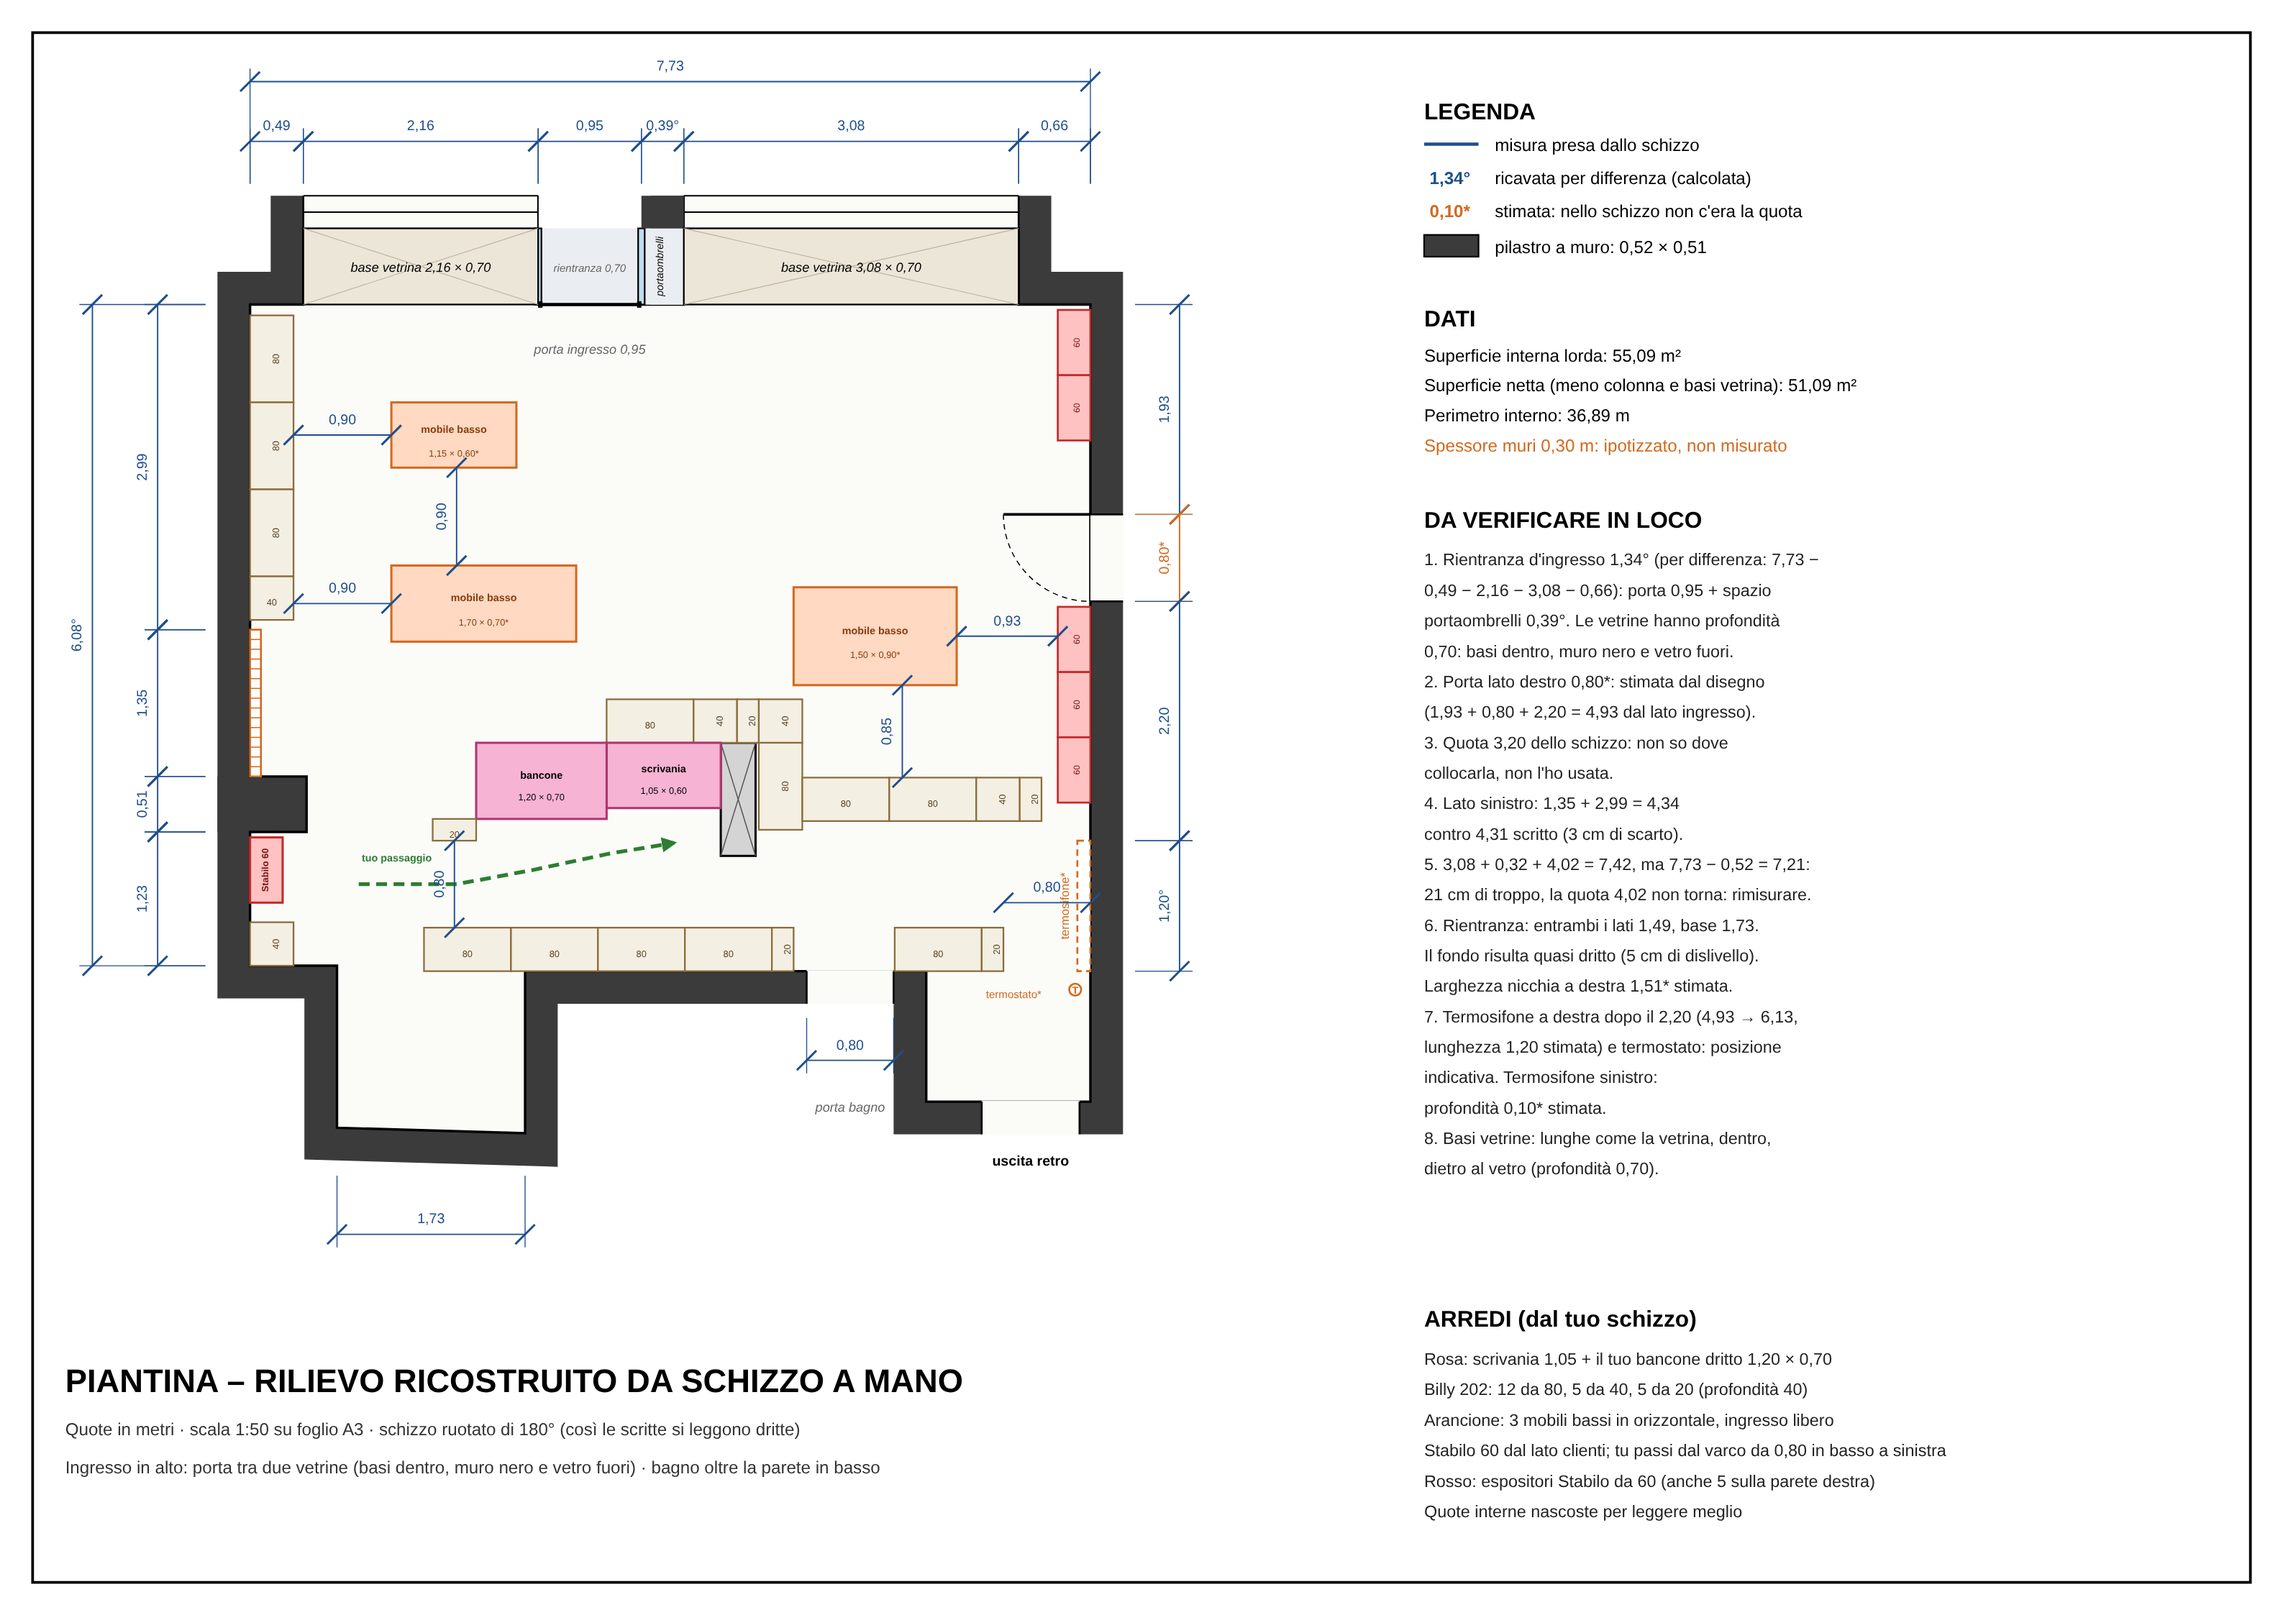
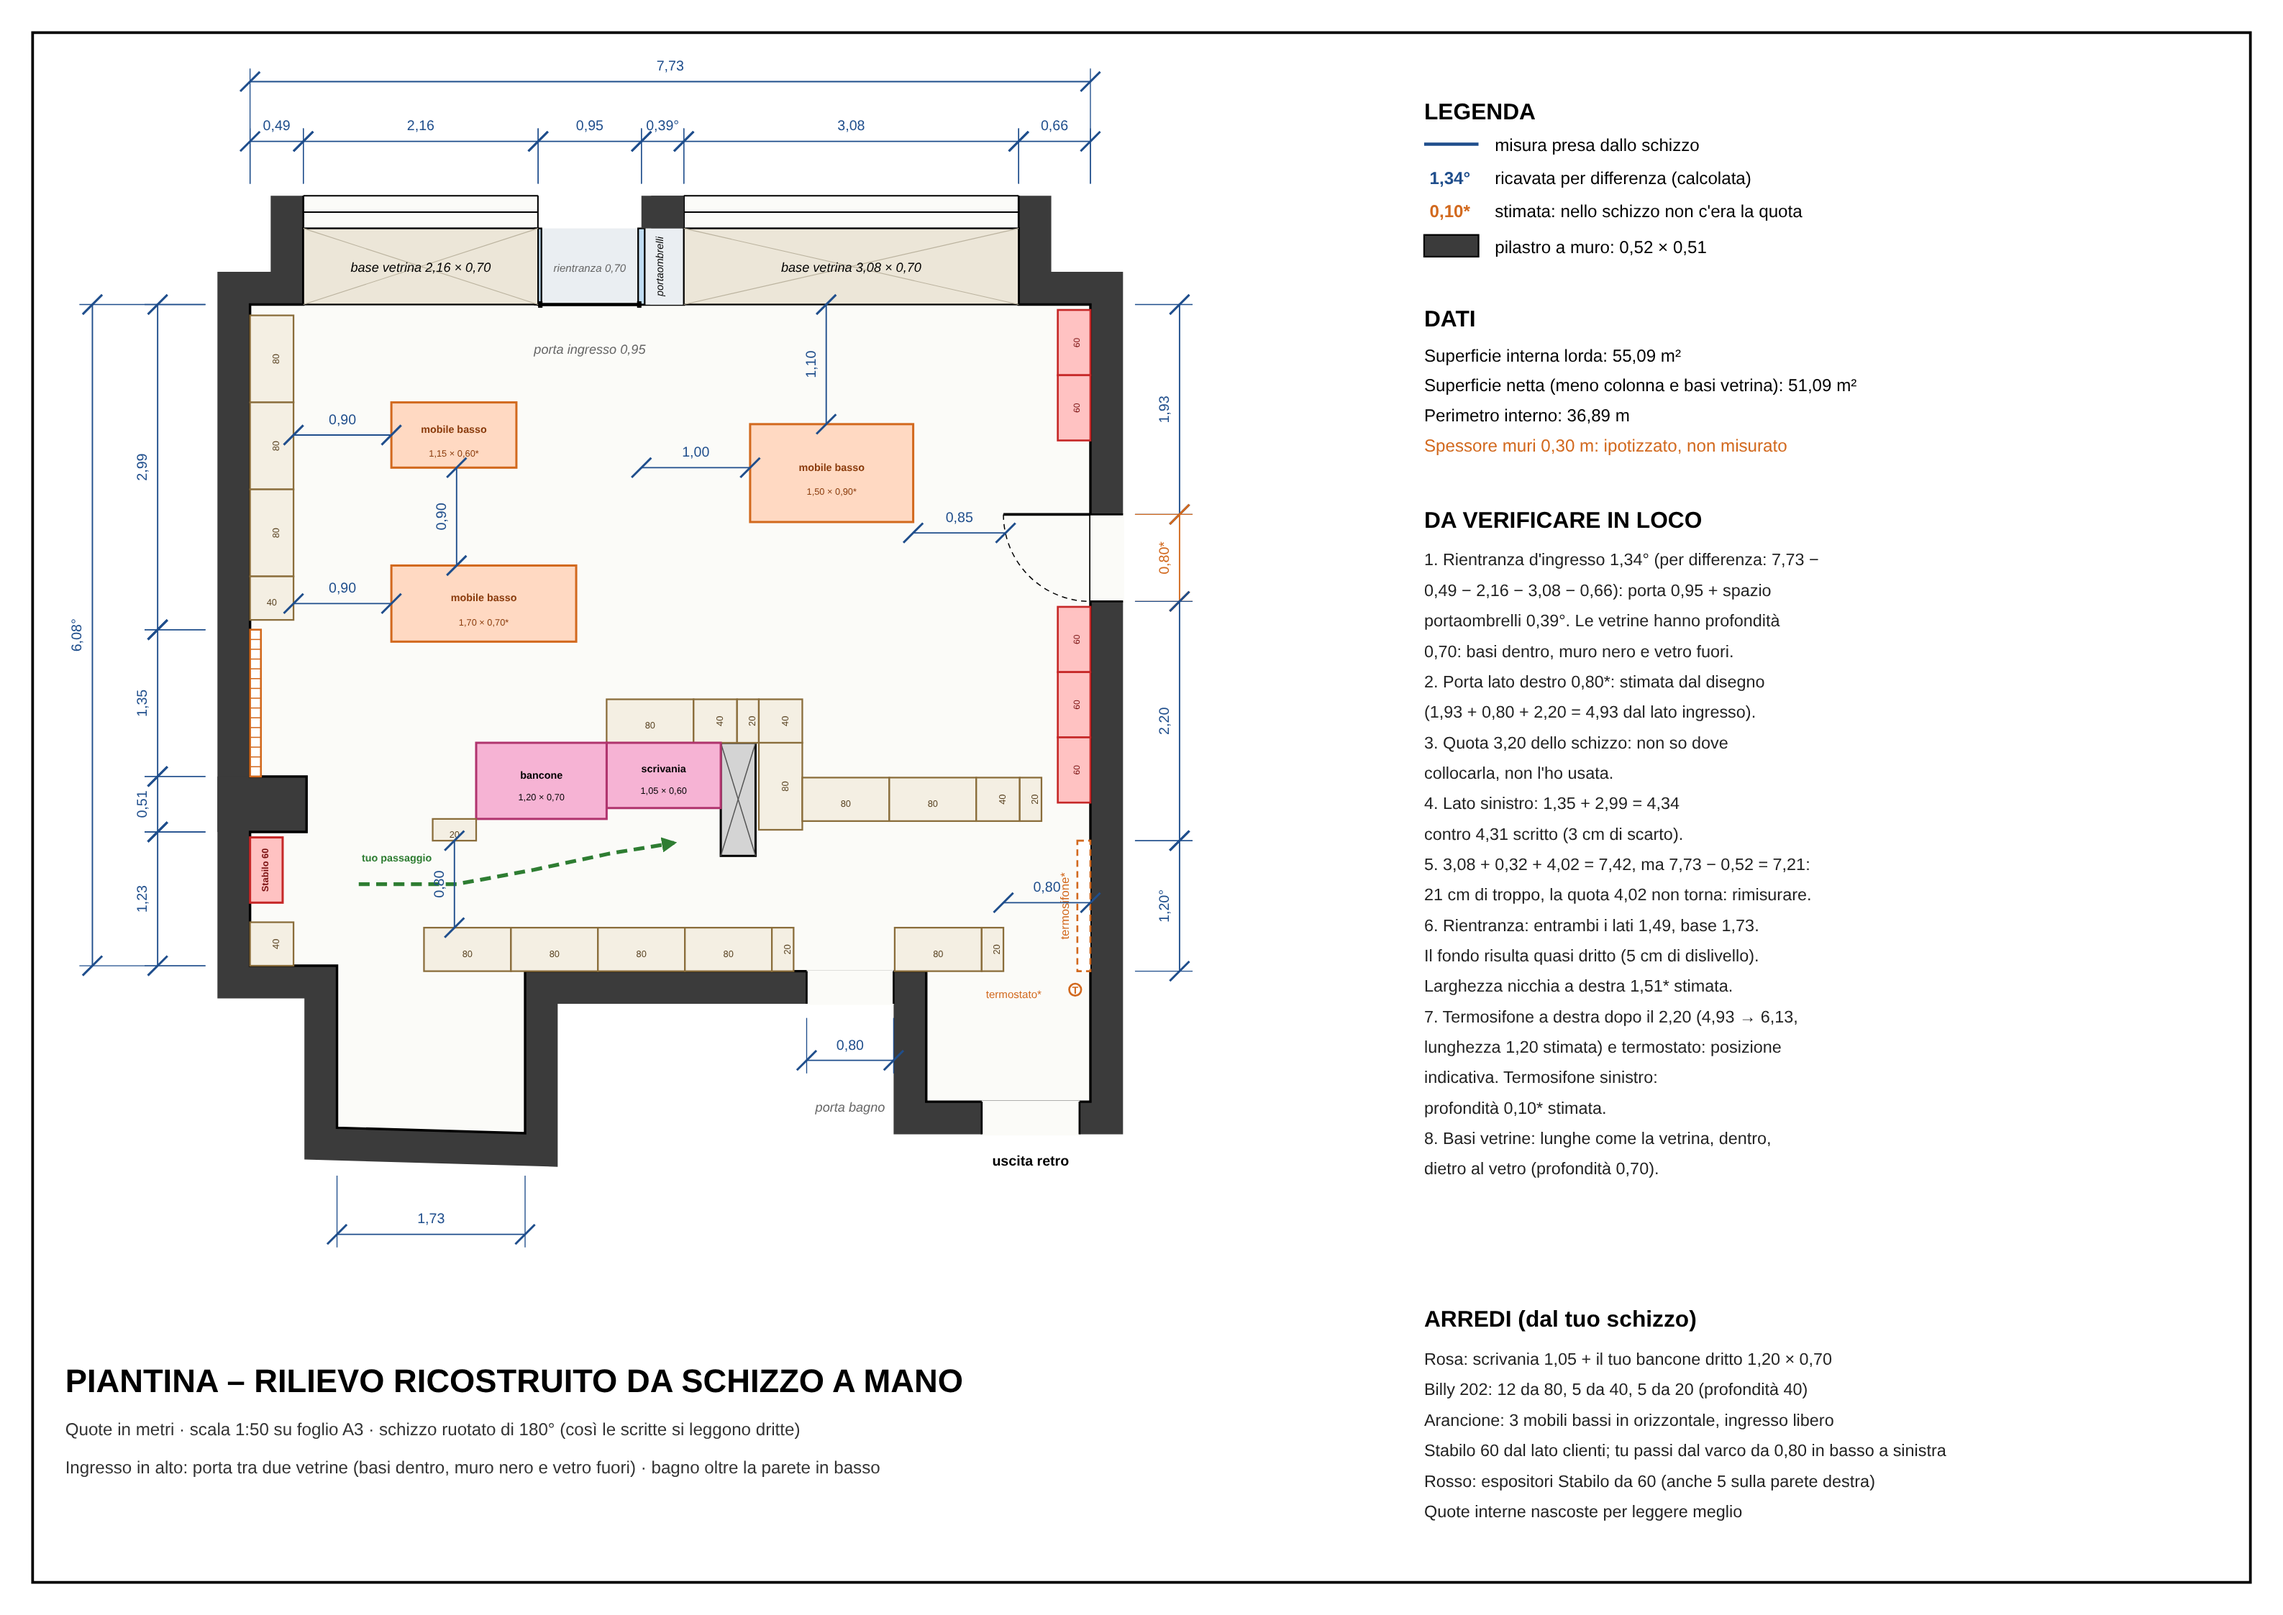
Mobile basso di destra spostato più in su
Claude-Session: https://claude.ai/code/session_012mEpG2XJd9CwTCZtepJEcC

Changed region(s): [[0.3119, 0.2493, 0.4367, 0.4363]]

diff --git a/piantina/genera_piantina.py b/piantina/genera_piantina.py
@@ -281,7 +281,7 @@ if FURN:
     dim_v(4.93, 5.73, 1.88, "0,80")
     # arancione: mobili bassi messi in orizzontale (lato lungo parallelo alle vetrine), fuori dalla linea della porta
     for (x1, y1, x2, y2, lab) in [(1.30, 0.90, 2.45, 1.50, "1,15 × 0,60"), (1.30, 2.40, 3.00, 3.10, "1,70 × 0,70"),
-                                  (5.00, 2.60, 6.50, 3.50, "1,50 × 0,90")]:
+                                  (4.60, 1.10, 6.10, 2.00, "1,50 × 0,90")]:
         rect(x1, y1, x2, y2, fill="#ffd9c2", stroke="#d2691e", w=0.4)
         text((x1 + x2) / 2, (y1 + y2) / 2 - 0.02, "mobile basso", 1.9, "#8a3b0c", weight="bold")
         text((x1 + x2) / 2, (y1 + y2) / 2 + 0.20, lab + "*", 1.7, "#8a3b0c")
@@ -289,8 +289,9 @@ if FURN:
     dim_h(0.40, 1.30, 1.20, "0,90")                  # parete sinistra - mobile 1
     dim_v(1.50, 2.40, 1.90, "0,90")                  # mobile 1 - mobile 2 (sotto il piccolo)
     dim_h(0.40, 1.30, 2.75, "0,90")                  # libreria sinistra - mobile 2
-    dim_h(6.50, W - 0.30, 3.05, "0,93")              # mobile 3 - libreria destra
-    dim_v(3.50, 4.35, 6.00, "0,85")                  # mobile 3 - libreria
+    dim_h(6.10, 6.95, 2.10, "0,85")                  # mobile 3 - porta laterale aperta
+    dim_v(0.0, 1.10, 5.30, "1,10")                   # vetrina - mobile 3
+    dim_h(3.60, 4.60, 1.50, "1,00")                  # ingresso libero a destra
     rect(0.0, 4.90, 0.30, 5.50, fill="#ffc2c2", stroke="#c62828", w=0.4)
     text(0.17, 5.20, "Stabilo 60", 1.7, "#7a1010", weight="bold", rot=-90)
 
